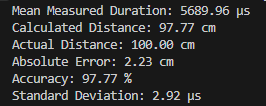
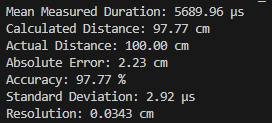
update

diff --git a/part4/calcacc.py b/part4/calcacc.py
@@ -32,6 +32,11 @@ accuracy = (1 - (absolute_error / actual_distance)) * 100
 # Calculate standard deviation
 std_dev = np.std(measurements)
 
+# Calculate resolution
+speed_of_sound = 34300  # Speed of sound in cm/s
+time_resolution = 1  # Time resolution in µs
+resolution = (speed_of_sound * time_resolution) / 1000000  # Resolution in cm
+
 # Output the results
 print(f"Mean Measured Duration: {mean_measured_duration:.2f} µs")
 print(f"Calculated Distance: {distance:.2f} cm")
@@ -39,3 +44,4 @@ print(f"Actual Distance: {actual_distance:.2f} cm")
 print(f"Absolute Error: {absolute_error:.2f} cm")
 print(f"Accuracy: {accuracy:.2f} %")
 print(f"Standard Deviation: {std_dev:.2f} µs")
+print(f"Resolution: {resolution:.4f} cm")
